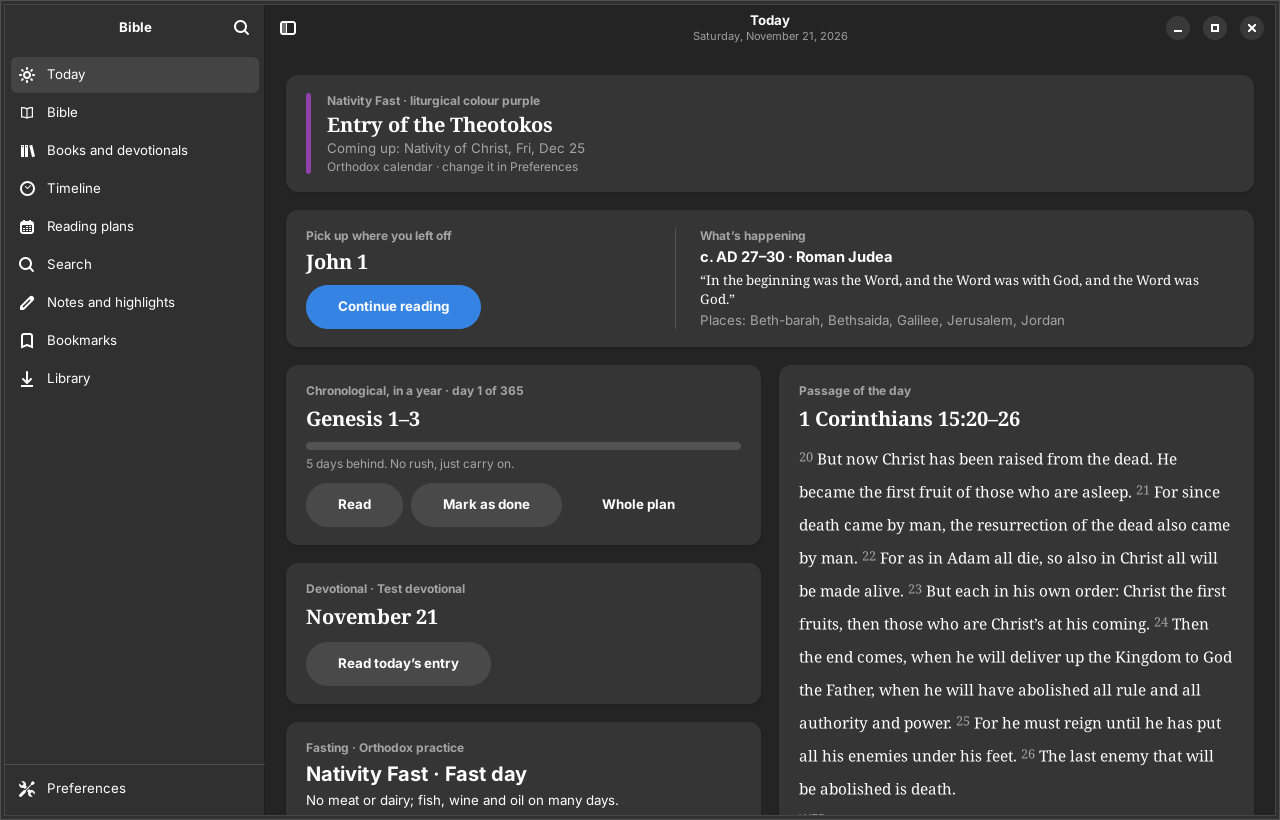
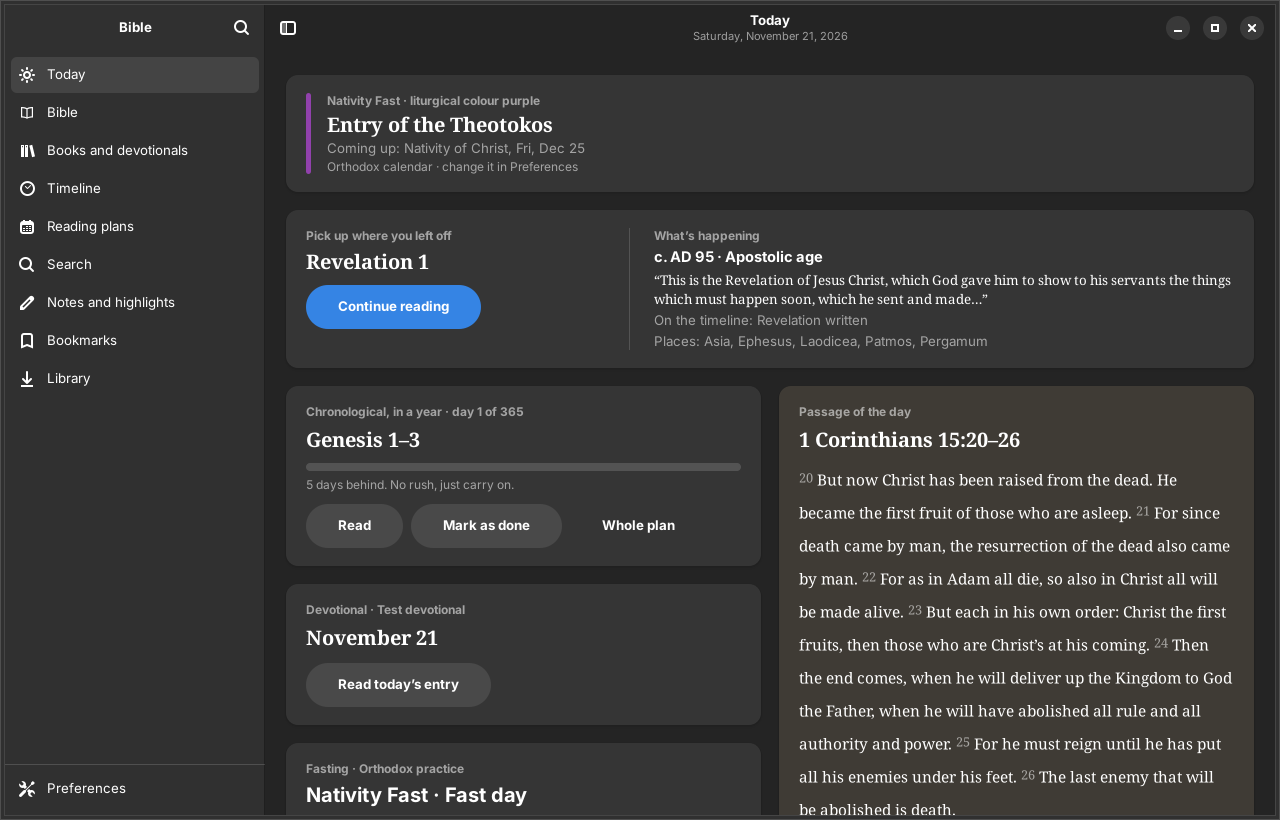
Polish: quieter notices, set-apart passage of the day; light and dark screenshots of every screen

diff --git a/website/index.html b/website/index.html
@@ -114,7 +114,10 @@ footer{border-top:1px solid var(--rule);padding:32px 0 48px;color:var(--muted);f
 <p>343,000 cross-references drawn as arcs across the whole Bible. Zoom into a single verse and watch every passage that meets it.</p>
 <p>Reorder the books by when they were written, who wrote them, their language, culture or literary form, and the patterns change.</p>
 </div>
-<img class="shot" src="screenshots/rainbow.png" width="1280" height="820" alt="Every cross-reference drawn as arcs of colour" loading="lazy">
+<picture>
+<source srcset="screenshots/rainbow-dark.png" media="(prefers-color-scheme: dark)">
+<img class="shot" src="screenshots/rainbow-light.png" width="1280" height="820" alt="Every cross-reference drawn as arcs of colour" loading="lazy">
+</picture>
 </section>
 
 <section class="feature">
@@ -124,7 +127,10 @@ footer{border-top:1px solid var(--rule);padding:32px 0 48px;color:var(--muted);f
 <p>Each of the 66 books, and the 18 of the Apocrypha, opens with who wrote it and when, the places it names on a map, and where it sits on the timeline.</p>
 <p>Download the full Wikipedia article with its pictures and keep it for offline reading.</p>
 </div>
-<img class="shot" src="screenshots/intro.png" width="1280" height="820" alt="The introduction to Revelation with a map of its places" loading="lazy">
+<picture>
+<source srcset="screenshots/intro-dark.png" media="(prefers-color-scheme: dark)">
+<img class="shot" src="screenshots/intro-light.png" width="1280" height="820" alt="The introduction to Revelation with a map of its places" loading="lazy">
+</picture>
 </section>
 
 <section class="feature flip">
@@ -133,7 +139,10 @@ footer{border-top:1px solid var(--rule);padding:32px 0 48px;color:var(--muted);f
 <h2>From the patriarchs to the apostles</h2>
 <p>A timeline of the kings, prophets and events of the Bible, with today in church history and the feast or season of your tradition on the Today page.</p>
 </div>
-<img class="shot" src="screenshots/timeline.png" width="1280" height="820" alt="A timeline of the kings of Israel and Judah" loading="lazy">
+<picture>
+<source srcset="screenshots/timeline-dark.png" media="(prefers-color-scheme: dark)">
+<img class="shot" src="screenshots/timeline-light.png" width="1280" height="820" alt="A timeline of the kings of Israel and Judah" loading="lazy">
+</picture>
 </section>
 
 <section class="modes">

diff --git a/app/src/style.css b/app/src/style.css
@@ -13,8 +13,10 @@
 button.swatch { min-width: 28px; min-height: 28px; padding: 0; margin: 0; border-radius: 999px; }
 .swatch-current { box-shadow: 0 0 0 2px @popover_bg_color, 0 0 0 4px @accent_bg_color; }
 .swatch-dot { min-width: 14px; min-height: 14px; border-radius: 999px; }
-.tip-bar { background-color: alpha(@accent_bg_color, 0.14); padding: 10px 14px; border-radius: 12px; margin: 12px 24px 0 24px; }
-.warning-bar { background-color: alpha(@warning_bg_color, 0.22); padding: 12px 16px; border-radius: 12px; margin: 12px; }
+.tip-bar { background-color: alpha(currentColor, 0.05); padding: 6px 8px 6px 14px; border-radius: 10px; margin: 10px 24px 0 24px; font-size: 0.93em; }
+.warning-bar { background-color: alpha(@warning_bg_color, 0.10); border: 1px solid alpha(@warning_bg_color, 0.35); padding: 10px 14px; border-radius: 10px; margin: 12px; font-size: 0.93em; }
+/* the passage of the day is set apart from the utility cards */
+.passage-card { background-color: mix(@card_bg_color, #b98a2e, 0.07); }
 .today-card { padding: 18px 20px; }
 .season-swatch { min-width: 5px; border-radius: 3px; }
 .app-version { padding: 3px 12px; border-radius: 999px; background-color: alpha(@accent_bg_color, 0.15); color: @accent_color; font-weight: 600; }

diff --git a/app/src/audio.rs b/app/src/audio.rs
@@ -258,7 +258,8 @@ impl Player {
         tip_label.set_xalign(0.0);
         tip_label.set_hexpand(true);
         let tip_btn = gtk::Button::with_label("Listen");
-        tip_btn.add_css_class("suggested-action");
+        tip_btn.add_css_class("pill");
+        tip_btn.set_valign(gtk::Align::Center);
         let tip_close = gtk::Button::from_icon_name("window-close-symbolic");
         tip_close.add_css_class("flat");
         tip_close.add_css_class("circular");

diff --git a/app/src/library.rs b/app/src/library.rs
@@ -215,6 +215,7 @@ impl LibraryView {
         legal_label.set_xalign(0.0);
         legal_label.set_hexpand(true);
         let legal_ok = gtk::Button::with_label("Understood");
+        legal_ok.set_valign(gtk::Align::Center);
         let legal_row = gtk::Box::new(gtk::Orientation::Horizontal, 12);
         legal_row.add_css_class("warning-bar");
         legal_row.append(&legal_label);

diff --git a/app/src/today.rs b/app/src/today.rs
@@ -270,6 +270,7 @@ impl Today {
             return None;
         }
         let c = card();
+        c.add_css_class("passage-card");
         let name = Ref::new(&book, chapter, 0).book_name();
         let r = if v1 > v0 {
             format!("{name} {chapter}:{v0}–{v1}")

diff --git a/README.md b/README.md
@@ -40,10 +40,12 @@ with GTK 4 and libadwaita. Free software under the GPL-3.0-or-later.
   maps, word study, presentation mode, GNOME Shell search, classic
   printed-Bible typography, and an optional splash screen and startup sound.
 
-| | |
+| Light | Dark |
 |---|---|
-| ![Cross-references](website/screenshots/rainbow.png) | ![Book introduction](website/screenshots/intro.png) |
-| ![Timeline](website/screenshots/timeline.png) | |
+| ![Cross-references, light](website/screenshots/rainbow-light.png) | ![Cross-references, dark](website/screenshots/rainbow-dark.png) |
+| ![Book introduction, light](website/screenshots/intro-light.png) | ![Book introduction, dark](website/screenshots/intro-dark.png) |
+| ![Timeline, light](website/screenshots/timeline-light.png) | ![Timeline, dark](website/screenshots/timeline-dark.png) |
+| ![Library, light](website/screenshots/library-light.png) | ![Library, dark](website/screenshots/library-dark.png) |
 
 ## Install
 
